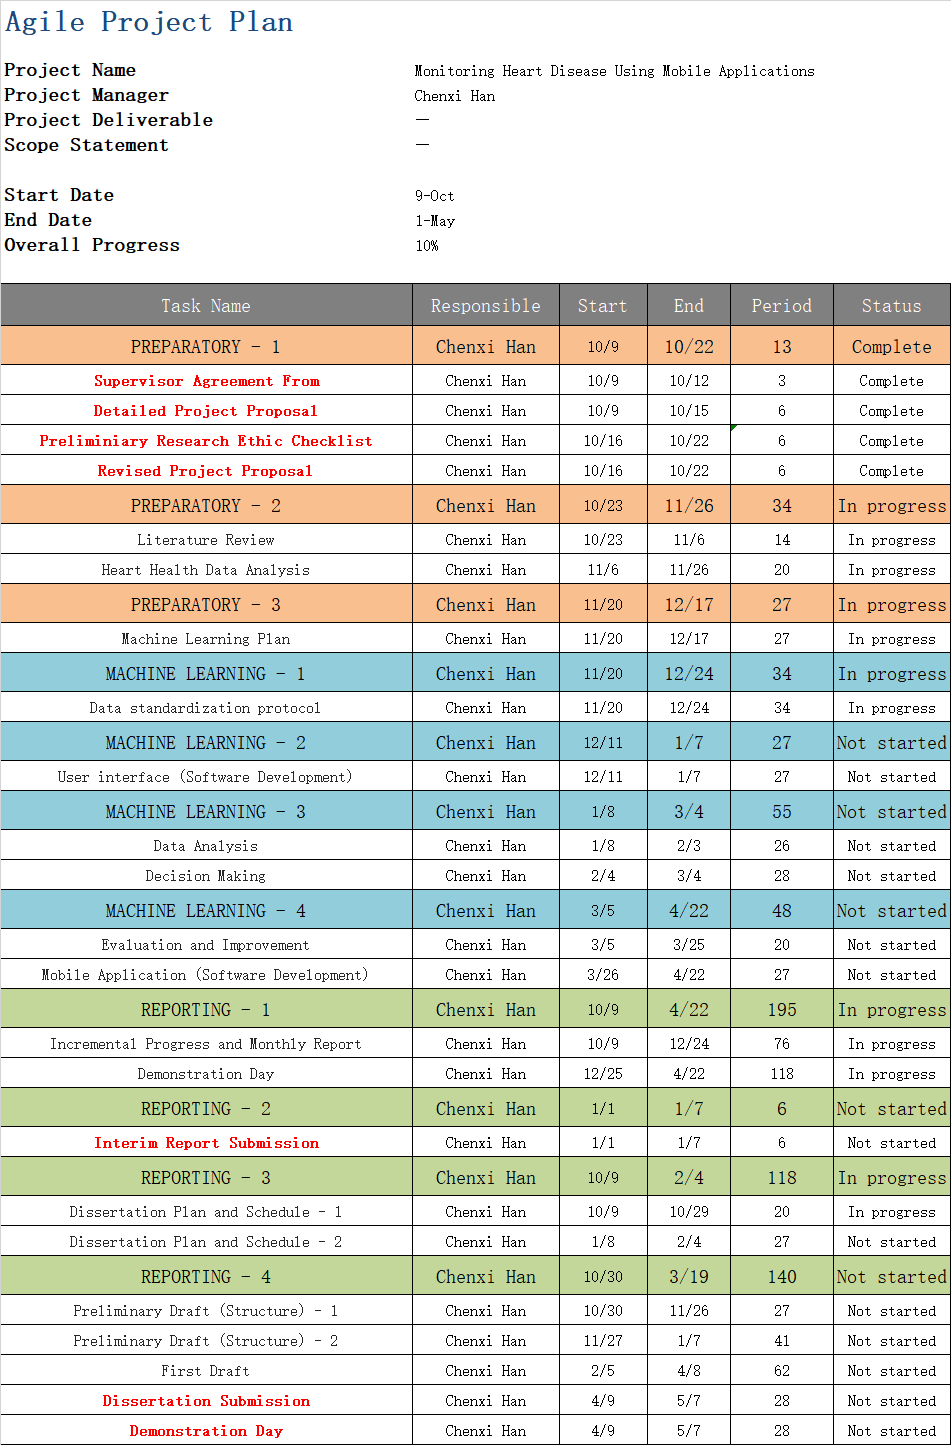
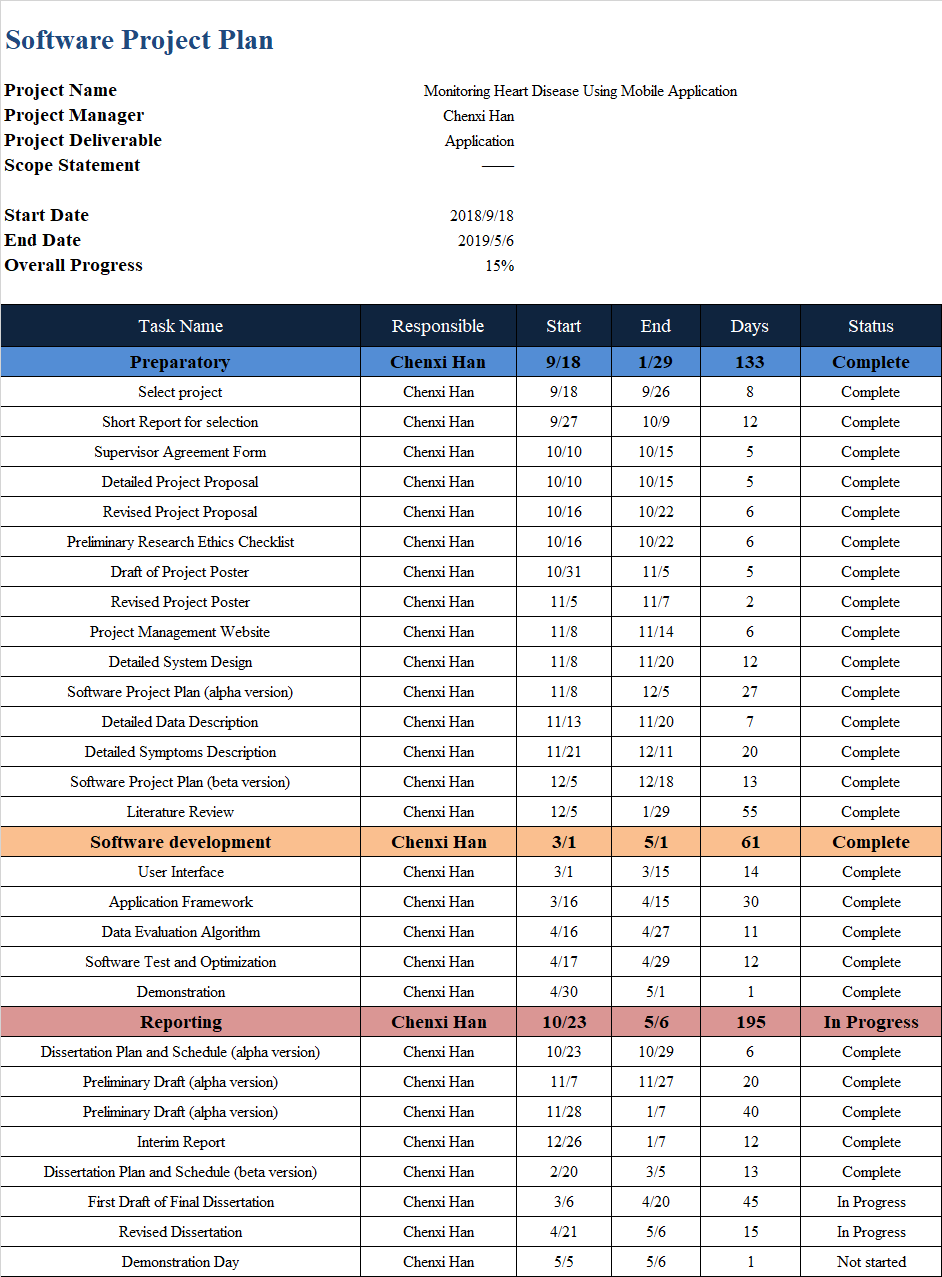
Update progress page

diff --git a/docs/progress.md b/docs/progress.md
@@ -4,14 +4,14 @@ layout: progress
 
 # Agile Project Plan
 
-Updated on 14-Nov-2018
-![Branching](https://raw.githubusercontent.com/5656hcx/HDMProject/master/docs/assets/progress.png)
+Updated on 1-May-2019
+![Agile_Project_Plan](https://raw.githubusercontent.com/5656hcx/HDMProject/master/docs/assets/progress.png)
 <center><a href="https://raw.githubusercontent.com/5656hcx/HDMProject/master/docs/assets/progress.png" target="view_window">View Raw Image</a></center><br>
 
 ---
 
 # Gantt chart
 
-Updated on 14-Nov-2018
-![Branching](https://raw.githubusercontent.com/5656hcx/HDMProject/master/docs/assets/ganttchart.png)
+Updated on 1-May-2019
+![Gantt_Chart](https://raw.githubusercontent.com/5656hcx/HDMProject/master/docs/assets/ganttchart.png)
 <center><a href="https://raw.githubusercontent.com/5656hcx/HDMProject/master/docs/assets/ganttchart.png" target="view_window">View Raw Image</a></center><br>
